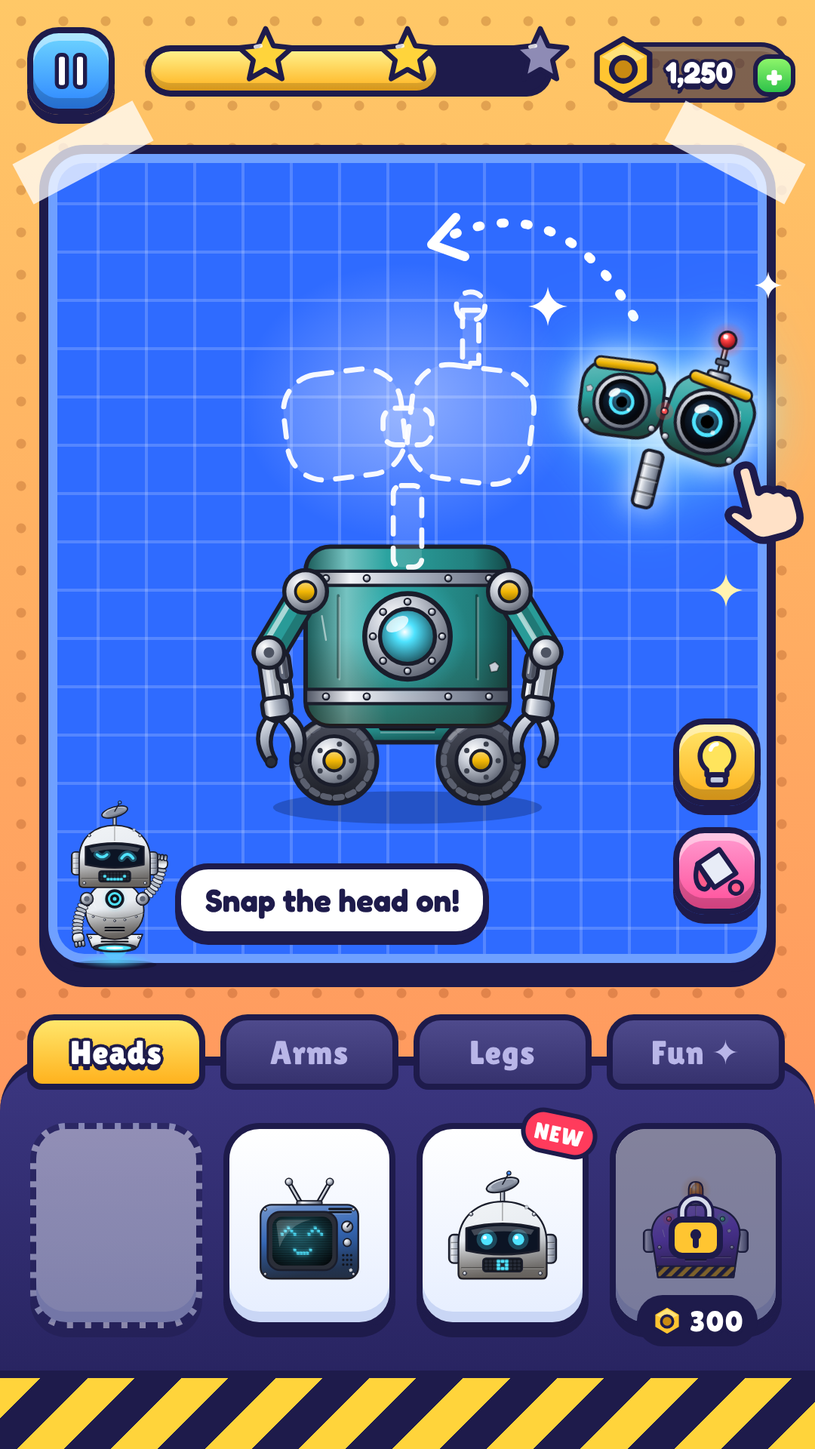
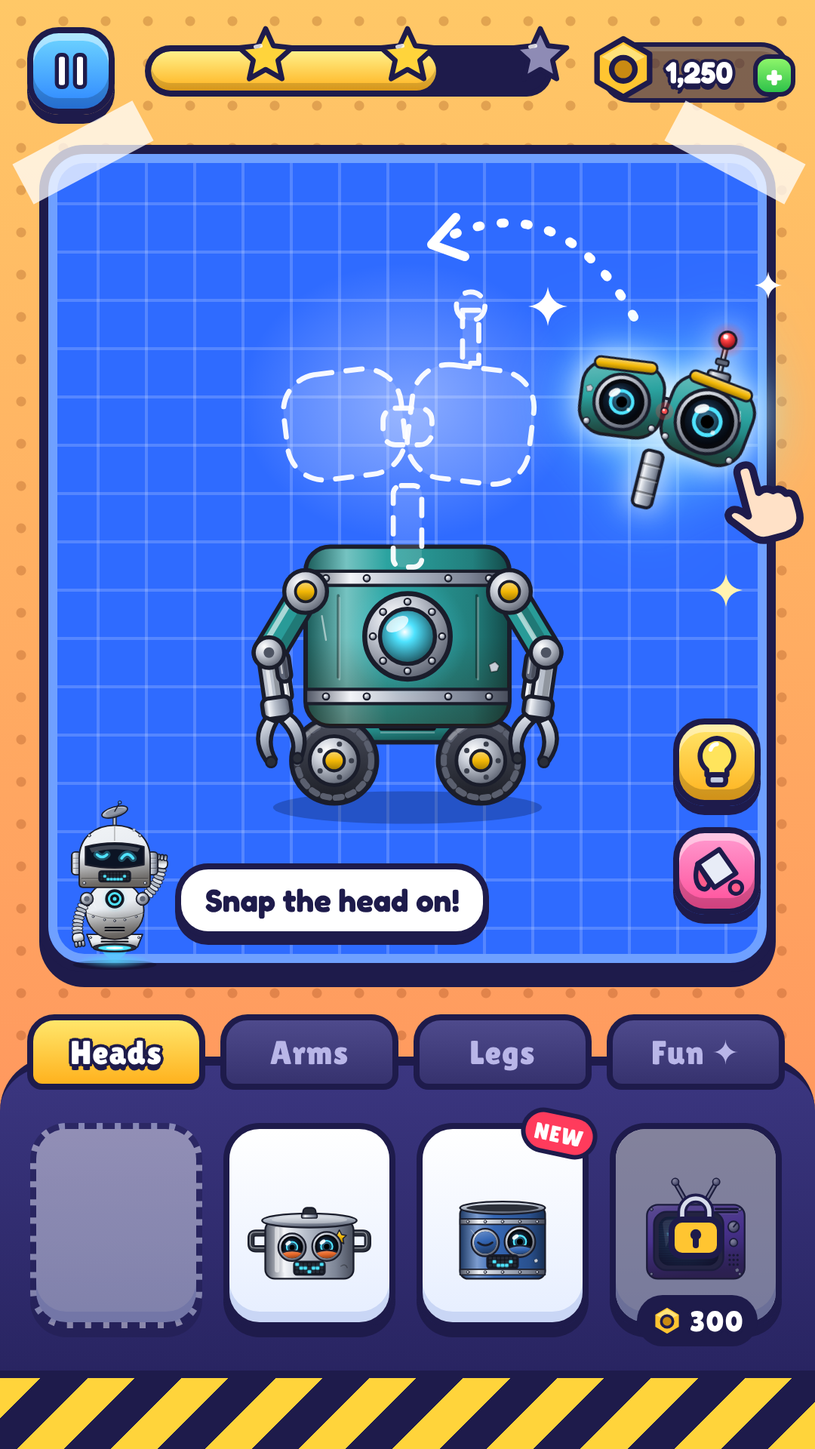
Add flight mockups: launch pad, space and sky flight, crash repair
Built robots now launch and fly: a countdown launch pad, a space run
(stars, shield, comets, UFO) and a sky run (rings, balloons, combos).
Bumps knock parts off, so kids repair and fly again. Adds junk-style
parts (cooking-pot head, spring legs, jetpack) and a game-loop board.

Claude-Session: https://claude.ai/code/session_01JPUJYAbeXmmcbf3wxWHEpT

Changed region(s): [[0.3056, 0.8125, 0.4583, 0.9062], [0.7639, 0.8125, 0.9167, 0.9062], [0.55, 0.8125, 0.7028, 0.9062]]

diff --git a/robot-game-mockups/src/flight.js b/robot-game-mockups/src/flight.js
@@ -1,0 +1,164 @@
+// After-build screens: launch pad, two flying worlds, and the crash → repair moment.
+const { OL, robot, CAST, I, sparkle, confetti, rnd, starPath } = require('./lib');
+const { pill, rbtn, ribbon, bigStar } = require('./screens');
+
+const ROBOT = { ...CAST.junky };
+const FLY_VB = '-10 -14 220 300';
+
+// ---- extra props
+const rocketIcon = (s = 40) => `<svg width="${s}" height="${s}" viewBox="0 0 24 24"><path d="M12 1.5 Q18 6 17 15 H7 Q6 6 12 1.5Z" fill="#fff" stroke="${OL}" stroke-width="2" stroke-linejoin="round"/><circle cx="12" cy="9" r="2.4" fill="#4FE3FF" stroke="${OL}" stroke-width="1.6"/><path d="M7 11 L3.5 16 L7 15Z M17 11 L20.5 16 L17 15Z" fill="#FF5C5C" stroke="${OL}" stroke-width="1.6" stroke-linejoin="round"/><path d="M9.5 15.5 Q12 23 14.5 15.5Z" fill="#FFB21E" stroke="${OL}" stroke-width="1.4"/></svg>`;
+const wrench = (s = 40) => `<svg width="${s}" height="${s}" viewBox="0 0 24 24"><path d="M14.5 3 a5.5 5.5 0 0 0 -5 7.3 L3 16.8 a2.3 2.3 0 0 0 3.2 3.2 L12.7 13.5 a5.5 5.5 0 0 0 7.3 -5 L17 11 L13.4 10.6 L13 7Z" fill="#fff" stroke="${OL}" stroke-width="2" stroke-linejoin="round"/></svg>`;
+const battery = (lvl, s = 44) => `<svg width="${s}" height="${s * 0.6}" viewBox="0 0 40 24"><rect x="2" y="3" width="32" height="18" rx="5" fill="${lvl ? '#1E1B4B' : '#3A3670'}" stroke="${OL}" stroke-width="2.5"/>
+  <rect x="34" y="8" width="4" height="8" rx="1.5" fill="#C3CAD5" stroke="${OL}" stroke-width="1.6"/>${lvl ? `<rect x="5" y="6" width="26" height="12" rx="3" fill="#5BE36A"/><rect x="7" y="7.5" width="22" height="3" rx="1.5" fill="#fff" opacity=".5"/>` : ''}</svg>`;
+
+const cloud = (x, y, s = 1, op = 1) => `<svg class="abs" style="left:${x}px;top:${y}px;width:${200 * s}px;opacity:${op}" viewBox="0 0 200 90">
+  <path d="M30 80 Q4 80 8 60 Q10 42 34 44 Q36 16 66 18 Q84 2 108 14 Q130 2 146 22 Q176 18 178 44 Q198 50 192 68 Q190 82 170 80Z" fill="#fff"/>
+  <path d="M30 80 Q12 80 12 68 Q60 76 110 70 Q160 66 190 70 Q190 82 170 80Z" fill="#D7E9FA"/></svg>`;
+
+const comet = (x, y, s, ang) => `<svg class="abs" style="left:${x}px;top:${y}px;width:${220 * s}px;height:${70 * s}px;transform:rotate(${ang}deg);transform-origin:85% 50%" viewBox="0 0 220 70">
+  <defs><linearGradient id="ct${x}" x1="1" y1="0" x2="0" y2="0"><stop offset="0" stop-color="#FFF3A0"/><stop offset=".25" stop-color="#FF9A1F" stop-opacity=".9"/><stop offset="1" stop-color="#FF4F2A" stop-opacity="0"/></linearGradient>
+  <radialGradient id="cr${x}" cx=".35" cy=".3"><stop offset="0" stop-color="#B9A592"/><stop offset="1" stop-color="#4A3A33"/></radialGradient></defs>
+  <path d="M190 18 Q100 20 4 35 Q100 50 190 52Z" fill="url(#ct${x})"/>
+  <path d="M168 20 L186 12 L204 22 L210 40 L198 56 L178 58 L164 46Z" fill="url(#cr${x})" stroke="${OL}" stroke-width="3" stroke-linejoin="round"/>
+  <circle cx="186" cy="30" r="5" fill="#3A2C26" opacity=".7"/><circle cx="196" cy="44" r="3.5" fill="#3A2C26" opacity=".7"/><circle cx="176" cy="44" r="3" fill="#3A2C26" opacity=".6"/></svg>`;
+
+const ufo = (x, y, s = 1) => `<svg class="abs" style="left:${x}px;top:${y}px;width:${150 * s}px" viewBox="0 0 150 130">
+  <defs><linearGradient id="ub${x}" x1="0" y1="0" x2="0" y2="1"><stop offset="0" stop-color="#F2F4F8"/><stop offset=".5" stop-color="#A7AFBD"/><stop offset="1" stop-color="#4E5463"/></linearGradient>
+  <linearGradient id="beam${x}" x1="0" y1="0" x2="0" y2="1"><stop offset="0" stop-color="#B8FF7A" stop-opacity=".7"/><stop offset="1" stop-color="#B8FF7A" stop-opacity="0"/></linearGradient></defs>
+  <path d="M55 58 L25 128 H125 L95 58Z" fill="url(#beam${x})"/>
+  <ellipse cx="75" cy="34" rx="28" ry="24" fill="#8CF5FF" stroke="${OL}" stroke-width="3" opacity=".9"/><ellipse cx="66" cy="24" rx="9" ry="5" fill="#fff" opacity=".8" transform="rotate(-25 66 24)"/>
+  <circle cx="75" cy="38" r="9" fill="#7CE35A" stroke="${OL}" stroke-width="2.5"/><circle cx="72" cy="36" r="2.6" fill="${OL}"/><circle cx="79" cy="36" r="2.6" fill="${OL}"/>
+  <ellipse cx="75" cy="50" rx="70" ry="16" fill="url(#ub${x})" stroke="${OL}" stroke-width="3.5"/>
+  ${[22, 48, 75, 102, 128].map((cx, i) => `<circle cx="${cx}" cy="${i % 4 ? 56 : 52}" r="4.5" fill="${['#FF5C5C', '#FFD43B', '#5CE1FF', '#FFD43B', '#FF5C5C'][i]}" stroke="${OL}" stroke-width="1.6"/>`).join('')}</svg>`;
+
+const balloon = (x, y, s, c1, c2) => `<svg class="abs" style="left:${x}px;top:${y}px;width:${110 * s}px" viewBox="0 0 110 160">
+  <defs><clipPath id="bc${x}"><path d="M55 4 C100 4 108 46 96 74 C88 92 70 102 66 112 H44 C40 102 22 92 14 74 C2 46 10 4 55 4Z"/></clipPath>
+  <radialGradient id="bs${x}" cx=".35" cy=".3" r=".8"><stop offset="0" stop-color="#fff" stop-opacity=".45"/><stop offset="1" stop-color="#000" stop-opacity=".25"/></radialGradient></defs>
+  <g clip-path="url(#bc${x})"><rect width="110" height="120" fill="${c1}"/>${[10, 42, 74].map(sx => `<path d="M${sx} 0 Q${sx + 8} 60 ${sx + 4} 120 H${sx + 22} Q${sx + 28} 60 ${sx + 22} 0Z" fill="${c2}"/>`).join('')}<rect width="110" height="120" fill="url(#bs${x})"/></g>
+  <path d="M55 4 C100 4 108 46 96 74 C88 92 70 102 66 112 H44 C40 102 22 92 14 74 C2 46 10 4 55 4Z" fill="none" stroke="${OL}" stroke-width="3.5"/>
+  <path d="M46 112 L44 132 M64 112 L66 132" stroke="${OL}" stroke-width="2"/><rect x="40" y="130" width="30" height="22" rx="4" fill="#B97A3E" stroke="${OL}" stroke-width="3"/><path d="M40 138 H70" stroke="#8A5427" stroke-width="2"/></svg>`;
+
+const ring = (x, y, w, glow = true) => `<svg class="abs" style="left:${x}px;top:${y}px;width:${w}px;height:${w * 0.42}px;${glow ? 'filter:drop-shadow(0 0 10px rgba(255,220,80,.9))' : ''}" viewBox="0 0 120 50">
+  <ellipse cx="60" cy="25" rx="54" ry="18" fill="none" stroke="${OL}" stroke-width="13"/><ellipse cx="60" cy="25" rx="54" ry="18" fill="none" stroke="#FFC928" stroke-width="7"/>
+  <path d="M14 20 Q30 8 60 7" fill="none" stroke="#FFF6B0" stroke-width="2.6" stroke-linecap="round"/></svg>`;
+
+const orb = (x, y, s, col, inner) => `<div class="abs" style="left:${x}px;top:${y}px;width:${s}px;height:${s}px;border-radius:50%;border:4px solid ${OL};
+  background:radial-gradient(circle at 35% 30%,#fff 0,${col} 45%,${col} 70%);box-shadow:0 0 22px 8px ${col}99;display:flex;align-items:center;justify-content:center">${inner}</div>`;
+
+const glowStar = (x, y, s) => `<div class="abs" style="left:${x}px;top:${y}px;filter:drop-shadow(0 0 8px rgba(255,220,80,.95))">${I.star(s)}</div>`;
+
+const shield = (x, y, s) => `<div class="abs" style="left:${x}px;top:${y}px;width:${s}px;height:${s}px;border-radius:50%;border:3px solid rgba(170,250,255,.95);
+  background:radial-gradient(circle at 35% 28%,rgba(255,255,255,.55) 0,rgba(140,240,255,.12) 30%,rgba(90,210,255,.08) 60%,rgba(90,210,255,.4) 100%);box-shadow:0 0 30px 6px rgba(120,240,255,.6),inset 0 0 26px rgba(150,245,255,.6)"></div>`;
+
+const flyHud = (stars, lives, prog) => `
+  ${rbtn(18, 18, 'blue', I.pause(32), 58)}
+  ${pill(98, 28, I.star(44), stars, 110).replace('<span class="plus">+</span>', '')}
+  <div class="abs" style="left:232px;top:30px;display:flex;gap:4px">${[0, 1, 2].map(i => battery(i < lives)).join('')}</div>
+  <div class="abs" style="left:488px;top:120px;width:22px;height:560px;border-radius:11px;background:rgba(20,16,60,.55);border:3px solid ${OL}">
+    <div class="abs" style="left:0;bottom:0;width:100%;height:${prog}%;border-radius:8px;background:linear-gradient(#8DF56A,#2EC24A)"></div></div>
+  <div class="abs" style="left:478px;top:94px;width:44px;height:30px">${flag()}</div>
+  <div class="abs" style="left:475px;top:${120 + 560 * (1 - prog / 100) - 22}px;width:48px;height:48px;border-radius:50%;background:#fff;border:3px solid ${OL};display:flex;align-items:center;justify-content:center">
+    ${robot({ ...ROBOT, only: ['antenna', 'head'], viewBox: '18 -14 164 156', style: 'width:36px' })}</div>`;
+const flag = () => `<svg width="44" height="34" viewBox="0 0 44 34"><path d="M12 32 V3" stroke="${OL}" stroke-width="4" stroke-linecap="round"/><path d="M13 4 H36 L31 11 L36 18 H13Z" fill="#FF5C8A" stroke="${OL}" stroke-width="2.6" stroke-linejoin="round"/></svg>`;
+const popup = (x, y, t, col = '#FFD43B') => `<div class="abs lil ol-s" style="left:${x}px;top:${y}px;font-size:30px;color:${col};transform:rotate(-8deg)">${t}</div>`;
+
+// -------------------------------------------------------------- LAUNCH PAD
+function launch() {
+  let stars = ''; for (let i = 0; i < 50; i++) stars += `<div class="abs" style="left:${rnd() * 540}px;top:${rnd() * 380}px;width:${2 + rnd() * 3}px;height:${2 + rnd() * 3}px;border-radius:50%;background:#fff;opacity:${0.4 + rnd() * 0.6}"></div>`;
+  const tower = x => `<svg class="abs" style="left:${x}px;top:330px;width:90px;height:420px" viewBox="0 0 90 420">
+    <rect x="20" y="20" width="50" height="400" fill="none" stroke="#3A2F6E" stroke-width="8"/>
+    ${Array.from({ length: 10 }, (_, i) => `<path d="M20 ${20 + i * 40} L70 ${60 + i * 40} M70 ${20 + i * 40} L20 ${60 + i * 40}" stroke="#3A2F6E" stroke-width="5"/>`).join('')}
+    <rect x="12" y="8" width="66" height="16" rx="4" fill="#4A3D86"/><circle cx="45" cy="0" r="9" fill="#FF4040" stroke="${OL}" stroke-width="3"/><circle cx="45" cy="0" r="24" fill="#FF4040" opacity=".3"/></svg>`;
+  const smoke = (x, y, s) => `<div class="abs" style="left:${x}px;top:${y}px;width:${s}px;height:${s}px;border-radius:50%;background:radial-gradient(circle at 40% 35%,#fff,#D9DCEB 60%,#A7ABC6);border:3px solid rgba(30,27,75,.25)"></div>`;
+  return `<div class="screen" style="background:linear-gradient(#140E45 0%,#3B228F 35%,#8A4FD8 58%,#FF9A6A 74%,#FFC77A 82%)">
+  ${stars}
+  <div class="abs" style="left:380px;top:120px;width:90px;height:90px;border-radius:50%;background:radial-gradient(circle at 35% 30%,#fff,#E3E6F5 50%,#A9AED0);box-shadow:0 0 50px 10px rgba(255,255,255,.35)"></div>
+  <svg class="abs" style="left:0;top:560px" width="540" height="200" viewBox="0 0 540 200"><path d="M0 120 L40 80 L60 100 L90 50 L120 90 L150 70 L190 110 L230 60 L260 95 L300 40 L330 85 L370 65 L400 100 L440 55 L480 95 L540 70 V200 H0Z" fill="#2A1A6B"/>
+    ${[100, 300, 440].map(x => `<rect x="${x}" y="${100}" width="10" height="10" fill="#FFD86B"/>`).join('')}</svg>
+  ${tower(10)}${tower(440)}
+  <div class="abs" style="left:0;top:740px;width:540px;height:220px;background:linear-gradient(#3B2A7A,#1E1452)"></div>
+  <div class="abs" style="left:70px;top:700px;width:400px;height:80px;border-radius:50%;background:repeating-conic-gradient(from 0deg at 50% 50%,#F2B705 0 15deg,${OL} 15deg 30deg);border:5px solid ${OL};box-shadow:0 10px 0 ${OL}"></div>
+  <div class="abs" style="left:120px;top:712px;width:300px;height:56px;border-radius:50%;background:radial-gradient(ellipse,#C9CED8,#7D8596);border:4px solid ${OL}"></div>
+  <div class="abs" style="left:170px;top:720px;width:200px;height:40px;border-radius:50%;background:radial-gradient(ellipse,rgba(255,200,90,.95),rgba(255,140,40,.4) 60%,transparent 70%)"></div>
+  ${robot({ ...ROBOT, flame: true, pose: 'cheer', shadow: false, style: 'position:absolute;left:150px;top:410px;width:240px' })}
+  ${smoke(60, 730, 90)}${smoke(130, 760, 110)}${smoke(330, 755, 110)}${smoke(400, 725, 95)}${smoke(-20, 770, 100)}${smoke(460, 770, 100)}${smoke(220, 790, 100)}
+  ${ribbon(70, 90, 400, 'GET READY!', '#38B6FF', '#1F6DFF', 50)}
+  <div class="abs lil" style="left:0;top:170px;width:540px;text-align:center;font-size:200px;line-height:1;color:#FFD43B;
+     text-shadow:0 8px 0 ${OL},6px 0 0 ${OL},-6px 0 0 ${OL},0 -6px 0 ${OL},5px 5px 0 ${OL},-5px 5px 0 ${OL},5px -5px 0 ${OL},-5px -5px 0 ${OL},0 14px 0 ${OL},0 0 40px rgba(255,220,80,.9)">3</div>
+  ${sparkle(110, 210, 30)}${sparkle(410, 300, 26)}${sparkle(160, 360, 20, '#FFF3B0')}
+  <div class="btn orange lil" style="left:90px;top:836px;width:360px;height:100px;font-size:52px;border-radius:36px">${rocketIcon(54)}<span class="ol">LAUNCH!</span></div>
+  <div class="abs" style="left:392px;top:880px;transform:rotate(-18deg)">${I.hand(66)}</div>
+  </div>`;
+}
+
+// -------------------------------------------------------------- SPACE FLIGHT
+function spaceFlight() {
+  let stars = ''; for (let i = 0; i < 110; i++) stars += `<div class="abs" style="left:${rnd() * 540}px;top:${rnd() * 960}px;width:${1.5 + rnd() * 3}px;height:${1.5 + rnd() * 3}px;border-radius:50%;background:#fff;opacity:${0.3 + rnd() * 0.7}"></div>`;
+  let streaks = ''; for (let i = 0; i < 14; i++) streaks += `<div class="abs" style="left:${rnd() * 540}px;top:${rnd() * 960}px;width:2px;height:${40 + rnd() * 70}px;background:linear-gradient(rgba(255,255,255,0),rgba(255,255,255,.55));border-radius:2px"></div>`;
+  const arc = [[250, 470], [218, 410], [206, 346], [218, 282], [250, 222], [290, 172]];
+  return `<div class="screen" style="background:linear-gradient(#050826,#140B47 55%,#2A0F5C)">
+  <div class="abs" style="left:-120px;top:120px;width:420px;height:300px;border-radius:50%;background:radial-gradient(rgba(255,90,200,.35),transparent 65%)"></div>
+  <div class="abs" style="left:250px;top:420px;width:420px;height:340px;border-radius:50%;background:radial-gradient(rgba(60,220,255,.28),transparent 65%)"></div>
+  ${stars}${streaks}
+  <div class="abs" style="left:300px;top:740px;width:340px;height:340px;border-radius:50%;background:radial-gradient(circle at 30% 25%,#FFB67A,#E8692A 45%,#7A2A12);border:5px solid ${OL};box-shadow:inset -30px -30px 60px rgba(0,0,0,.35)"></div>
+  <div class="abs" style="left:250px;top:850px;width:440px;height:110px;border-radius:50%;border:12px solid #FFD43B;transform:rotate(-14deg);border-bottom-color:transparent;border-left-color:#E8B20A"></div>
+  <div class="abs" style="left:40px;top:150px;width:60px;height:60px;border-radius:50%;background:radial-gradient(circle at 35% 30%,#CFF7FF,#4FB7E3 55%,#1B5A8A);border:4px solid ${OL}"></div>
+  ${ufo(24, 260, 1)}
+  ${comet(250, 120, 0.9, -28)}${comet(-60, 600, 0.75, 20)}
+  <svg class="abs" style="left:380px;top:420px;width:60px" viewBox="0 0 60 60"><path d="M10 20 L28 6 L50 14 L56 36 L40 54 L16 50 L4 34Z" fill="#7A6A60" stroke="${OL}" stroke-width="4" stroke-linejoin="round"/><circle cx="30" cy="26" r="6" fill="#4A3A33"/><circle cx="40" cy="40" r="4" fill="#4A3A33"/></svg>
+  ${arc.map(([x, y], i) => glowStar(x, y, i === 0 ? 44 : 50)).join('')}
+  ${popup(300, 500, '+1')}
+  ${orb(116, 470, 70, '#38B6FF', I.shield(40))}
+  ${orb(390, 300, 62, '#B46BFF', `<span class="lil ol-s" style="font-size:24px">x2</span>`)}
+  ${shield(152, 556, 236)}
+  ${robot({ ...ROBOT, flame: 'big', pose: 'cheer', mood: 'wow', shadow: false, viewBox: FLY_VB, style: 'position:absolute;left:176px;top:570px;width:190px;transform:rotate(-8deg)' })}
+  ${sparkle(150, 840, 18)}${sparkle(330, 880, 14)}${sparkle(240, 900, 22, '#FFF3B0')}
+  ${flyHud('18', 2, 62)}
+  <div class="abs" style="left:24px;top:880px;display:flex;align-items:center;gap:10px;padding:8px 16px;border-radius:20px;background:rgba(20,16,60,.6);border:3px solid ${OL}">
+    <span class="lil ol-s" style="font-size:22px">◀ Drag to fly ▶</span></div>
+  </div>`;
+}
+
+// -------------------------------------------------------------- SKY FLIGHT
+function skyFlight() {
+  return `<div class="screen" style="background:linear-gradient(#4FB9F5 0%,#8FD6FF 45%,#CDEFFF 75%,#FFF2D6 100%)">
+  <div class="abs" style="left:380px;top:60px;width:260px;height:260px;border-radius:50%;background:radial-gradient(#FFF7C2 0,#FFE066 25%,rgba(255,224,102,.35) 40%,transparent 62%)"></div>
+  <div class="abs" style="left:-140px;top:420px;width:820px;height:820px;border-radius:50%;
+     background:radial-gradient(circle,transparent 54%,rgba(255,92,92,.55) 54%,rgba(255,92,92,.55) 57%,rgba(255,170,60,.55) 57%,rgba(255,170,60,.55) 60%,rgba(255,230,80,.55) 60%,rgba(255,230,80,.55) 63%,rgba(100,220,120,.55) 63%,rgba(100,220,120,.55) 66%,rgba(80,170,255,.55) 66%,rgba(80,170,255,.55) 69%,rgba(150,110,240,.5) 69%,rgba(150,110,240,.5) 72%,transparent 72%)"></div>
+  ${cloud(-40, 140, 1.1, 0.9)}${cloud(330, 330, 0.9, 0.95)}${cloud(-30, 620, 1.3)}${cloud(300, 760, 1.4)}${cloud(150, 40, 0.7, 0.7)}
+  <svg class="abs" style="left:0;top:860px" width="540" height="100" viewBox="0 0 540 100"><path d="M0 40 Q70 0 140 30 T280 30 T420 20 T540 30 V100 H0Z" fill="#7BD66A"/><path d="M0 70 Q90 40 180 62 T360 60 T540 55 V100 H0Z" fill="#4FBF5A"/></svg>
+  ${balloon(16, 250, 0.95, '#FF5C8A', '#FFD43B')}${balloon(400, 520, 0.8, '#38B6FF', '#fff')}
+  <svg class="abs" style="left:70px;top:700px;width:90px" viewBox="0 0 90 70"><path d="M4 30 L86 6 L60 64 L42 40Z" fill="#fff" stroke="${OL}" stroke-width="3.5" stroke-linejoin="round"/><path d="M86 6 L42 40 L40 58" fill="none" stroke="${OL}" stroke-width="3"/></svg>
+  ${ring(200, 120, 150)}${ring(214, 270, 130)}${ring(230, 400, 112)}
+  ${glowStar(256, 152, 40)}${glowStar(262, 298, 36)}${glowStar(150, 420, 40)}${glowStar(350, 650, 40)}
+  <div class="abs lil" style="left:40px;top:470px;padding:6px 18px;border-radius:20px;background:#FF5C8A;border:4px solid ${OL};font-size:28px;transform:rotate(8deg);box-shadow:0 5px 0 ${OL}"><span class="ol-s">x3 COMBO!</span></div>
+  ${robot({ ...ROBOT, color: '#E8692A', flame: 'big', pose: 'cheer', shadow: false, viewBox: FLY_VB, style: 'position:absolute;left:170px;top:530px;width:200px;transform:rotate(6deg)' })}
+  <svg class="abs" style="left:130px;top:520px;width:280px;height:300px" viewBox="0 0 280 300">${[[30, 60], [250, 80], [20, 160], [262, 170]].map(([x, y]) => `<path d="M${x} ${y} v40" stroke="#fff" stroke-width="5" stroke-linecap="round" opacity=".8"/>`).join('')}</svg>
+  ${flyHud('27', 3, 38)}
+  </div>`;
+}
+
+// -------------------------------------------------------------- CRASH → REPAIR
+function repair() {
+  const puff = (x, y, s) => `<div class="abs" style="left:${x}px;top:${y}px;width:${s}px;height:${s}px;border-radius:50%;background:radial-gradient(circle at 40% 35%,#F2F3F8,#A9ADC4);opacity:.9"></div>`;
+  return `<div class="screen" style="background:linear-gradient(#FFC867,#FF8A5C)">
+  <div class="abs" style="inset:0;background-image:radial-gradient(circle,rgba(120,40,0,.22) 3px,transparent 3.5px);background-size:28px 28px"></div>
+  <div class="abs" style="left:0;top:690px;width:540px;height:270px;background:linear-gradient(#8A5A3C,#5E3B26);border-top:6px solid ${OL}"></div>
+  <div class="abs" style="left:0;top:690px;width:540px;height:22px;background:repeating-linear-gradient(90deg,#9C6A48 0 60px,#8A5A3C 60px 62px)"></div>
+  ${rbtn(18, 18, 'orange', I.home(36), 58)}${pill(398, 28, I.nut(44), '1,250', 126)}
+  ${ribbon(70, 84, 400, 'OOPS!', '#FF5C5C', '#D63A3A', 58)}
+  <div class="abs" style="left:60px;top:200px;width:420px;padding:12px 18px;background:#fff;border:4px solid ${OL};border-radius:24px;color:${OL};font-size:24px;text-align:center;box-shadow:0 6px 0 ${OL}">A comet bumped Junky's arm off!</div>
+  ${puff(300, 330, 44)}${puff(326, 306, 32)}${puff(282, 312, 26)}
+  ${robot({ ...ROBOT, missing: 'armR', mood: 'focus', style: 'position:absolute;left:110px;top:316px;width:250px' })}
+  <div class="abs" style="left:376px;top:600px;transform:rotate(-70deg);filter:drop-shadow(0 6px 0 rgba(0,0,0,.2))">
+    ${robot({ ...ROBOT, only: ['arms'], pose: 'down', viewBox: '138 132 52 104', style: 'width:64px' })}</div>
+  <svg class="abs" style="left:330px;top:440px;width:150px;height:200px" viewBox="0 0 150 200"><path d="M90 180 Q140 100 30 40" fill="none" stroke="#fff" stroke-width="6" stroke-dasharray="2 14" stroke-linecap="round"/><path d="M44 30 L26 38 L40 54" fill="none" stroke="#fff" stroke-width="6" stroke-linecap="round" stroke-linejoin="round"/></svg>
+  <div class="abs" style="left:440px;top:640px;transform:rotate(-20deg)">${I.hand(60)}</div>
+  ${sparkle(120, 400, 22)}${sparkle(400, 360, 18)}
+  <div class="panel" style="left:60px;top:730px;width:420px;height:84px;display:flex;align-items:center;justify-content:center;gap:14px;font-size:24px">
+    <span>Stars you kept:</span>${I.star(40)}${I.star(40)}${I.star(40, '#8E8BB5')}</div>
+  <div class="btn green lil" style="left:110px;top:848px;width:320px;height:90px;font-size:46px">${wrench(46)}<span class="ol">FIX IT!</span></div>
+  </div>`;
+}
+
+module.exports = { launch, spaceFlight, skyFlight, repair };

diff --git a/robot-game-mockups/src/robot.js b/robot-game-mockups/src/robot.js
@@ -183,6 +183,18 @@ function robot(o = {}) {
         ${[56, 78, 100, 122, 144].map(x => rivet(x, 59.5, 1.8) + rivet(x, 123.5, 1.8)).join('')}
         ${lens(78, 86, 13, lidOf(0))}${lens(122, 85, 15, lidOf(1))}${ledMouth(100, 102, 7)}${scratch(60, 70, 10, 0.9)}${chip(140, 108)}`;
       return { base, full, ant: [100, 36] };
+    },
+    pot: () => {
+      const handles = tube('M44 74 H32 Q26 74 26 80 V88 Q26 94 32 94 H44', 5, '#3A3F4C') + tube('M156 74 H168 Q174 74 174 80 V88 Q174 94 168 94 H156', 5, '#3A3F4C');
+      const base = `<path class="ln" d="M44 74 H28 V94 H44 M156 74 H172 V94 H156" stroke-width="7"/><rect x="44" y="58" width="112" height="74" rx="12" fill="${SC}"/><ellipse cx="100" cy="58" rx="60" ry="9" fill="${S}"/><rect x="92" y="42" width="16" height="12" rx="5" fill="#2A2E38"/>`;
+      const full = `${handles}<rect x="44" y="58" width="112" height="74" rx="12" fill="${SC}"/>
+        <rect x="56" y="66" width="6" height="58" rx="3" fill="#fff" opacity=".5" stroke="none"/><rect x="66" y="66" width="2.5" height="58" rx="1.2" fill="#fff" opacity=".4" stroke="none"/>
+        <path d="M140 116 q6 -4 8 2" stroke="#000" stroke-opacity=".3" stroke-width="1.4" fill="none"/>
+        <ellipse cx="100" cy="58" rx="60" ry="9" fill="${S}"/><ellipse cx="100" cy="57" rx="48" ry="5" fill="#fff" opacity=".35" stroke="none"/>
+        <rect x="92" y="42" width="16" height="12" rx="5" fill="#2A2E38"/><rect x="90" y="50" width="20" height="5" rx="2" fill="${SC}" stroke-width="1.4"/>
+        <path d="${'M'}138 70 l3 6 6 1 -4.5 4 1.2 6.5 -5.7 -3 -5.7 3 1.2 -6.5 -4.5 -4 6 -1Z" fill="${A}" stroke-width="1.4"/>
+        ${lens(78, 92, 13, lidOf(0))}${lens(122, 91, 14, lidOf(1))}${ledMouth(100, 110, 7)}`;
+      return { base, full, ant: [130, 54] };
     }
   };
 
@@ -261,7 +273,13 @@ function robot(o = {}) {
       `<circle cx="${s[0]}" cy="${s[1]}" r="10.5" fill="${RV}" stroke="${K}" stroke-width="2"/><circle cx="${s[0]}" cy="${s[1]}" r="5" fill="${A}" stroke="${K}" stroke-width="1.4"/>`;
   };
   const armBase = side => { const [s, el, h] = armPts(side); return `<path class="ln" d="M${s} L${el} L${h}" fill="none" stroke-width="12"/><circle cx="${h[0]}" cy="${h[1]}" r="8"/><circle cx="${s[0]}" cy="${s[1]}" r="10"/>`; };
-  const ARMS = { base: armBase(-1) + armBase(1), full: arm(-1) + arm(1) };
+  const sparks = (x, y) => `<circle cx="${x}" cy="${y}" r="9" fill="#2A2E38" stroke="${K}" stroke-width="2"/>` +
+    [0, 1, 2, 3, 4, 5].map(i => { const t = -0.4 - i * 0.55; return `<path d="M${f1(x + 10 * Math.cos(t))} ${f1(y + 10 * Math.sin(t))} l${f1(10 * Math.cos(t))} ${f1(10 * Math.sin(t))}" stroke="#FFD43B" stroke-width="2.4"/>`; }).join('') +
+    `<circle cx="${x}" cy="${y}" r="4" fill="#FFF3B0" stroke="none"/>`;
+  const ARMS = { base: armBase(-1) + armBase(1), full: arm(-1) + (o.missing === 'armR' ? sparks(SR[0] + 4, SR[1]) : arm(1)) };
+  const flame = (x, y, len) => `<path d="M${x - 8} ${y} Q${x - 12} ${y + len * 0.5} ${x} ${y + len} Q${x + 12} ${y + len * 0.5} ${x + 8} ${y}Z" fill="${U('fl')}" stroke="none"/><path d="M${x - 4} ${y} Q${x - 5} ${y + len * 0.3} ${x} ${y + len * 0.5} Q${x + 5} ${y + len * 0.3} ${x + 4} ${y}Z" fill="#FFFBEA" stroke="none"/>`;
+  const tank = x => `<rect x="${x - 12}" y="116" width="24" height="66" rx="12" fill="${SC}"/><rect x="${x - 12}" y="134" width="24" height="8" fill="${A}" stroke-width="1.6"/>${rivet(x, 124, 1.8)}<path d="M${x - 8} 182 H${x + 8} L${x + 5} 194 H${x - 5}Z" fill="#5E6576"/>` + (o.flame ? flame(x, 194, o.flame === 'big' ? 64 : 36) : '');
+  const JET = o.jetpack ? tank(40) + tank(160) : '';
 
   // ---------- LOCOMOTION
   const legsLib = {
@@ -310,6 +328,14 @@ function robot(o = {}) {
         <ellipse cx="100" cy="227" rx="34" ry="6.5" fill="#2A2E38" stroke="${K}" stroke-width="2"/><ellipse cx="100" cy="227.5" rx="26" ry="4" fill="${e}" stroke="none"/><ellipse cx="100" cy="227.5" rx="14" ry="2" fill="#fff" stroke="none"/>
         ${rivet(62, 211, 1.8)}${rivet(138, 211, 1.8)}`
     }),
+    springs: () => {
+      const leg = x => {
+        let d = `M${x} 210`; for (let i = 0; i < 7; i++) d += ` L${x + (i % 2 ? -9 : 9)} ${214 + i * 4}`; d += ` L${x} 242`;
+        return `<rect x="${x - 8}" y="203" width="16" height="9" rx="3" fill="${SC}"/>${tube(d, 3, '#C9CED8')}
+          <path d="M${x - 16} 252 Q${x - 16} 240 ${x - 4} 240 H${x + 8} Q${x + 18} 240 ${x + 18} 248 V252Z" fill="${P}"/><rect x="${x - 17}" y="249" width="36" height="5" rx="2" fill="#1F222B"/>`;
+      };
+      return { base: `<rect x="68" y="204" width="16" height="40" rx="3"/><rect x="116" y="204" width="16" height="40" rx="3"/><path d="M60 252 V240 H94 V252Z"/><path d="M108 252 V240 H142 V252Z"/>`, full: leg(76) + leg(124) };
+    },
     rocket: () => {
       const jet = x => `<path d="M${x - 9} 234 Q${x - 13} 254 ${x} 270 Q${x + 13} 254 ${x + 9} 234Z" fill="${U('fl')}" stroke="none"/><path d="M${x - 4} 234 Q${x - 5} 246 ${x} 254 Q${x + 5} 246 ${x + 4} 234Z" fill="#FFFBEA" stroke="none"/>
         <path d="M${x - 12} 204 H${x + 12} L${x + 9} 232 H${x - 9}Z" fill="${SC}"/><path d="M${x - 12} 204 H${x + 12} L${x + 9} 232 H${x - 9}Z" fill="${U('heat')}" stroke="none"/><rect x="${x - 10.5}" y="228" width="21" height="6" rx="2" fill="#5E6576"/>`;
@@ -347,7 +373,7 @@ function robot(o = {}) {
   const vb = o.viewBox || '0 -6 200 268';
   const shadow = o.shadow === false ? '' : `<ellipse cx="100" cy="254" rx="66" ry="8" fill="#000" opacity=".22"/>`;
   return `<svg viewBox="${vb}" class="${o.cls || ''}" style="${o.sil ? `--sil:${o.sil};` : ''}${o.style || ''}" xmlns="http://www.w3.org/2000/svg">${defs}${shadow}
-    <g stroke="${K}" stroke-width="2.2" stroke-linejoin="round" stroke-linecap="round">${render('antenna')}${render('legs')}${render('body')}${render('arms')}${render('head')}</g></svg>`;
+    <g stroke="${K}" stroke-width="2.2" stroke-linejoin="round" stroke-linecap="round">${render('antenna')}${render('legs')}${show('body') && !o.sil ? JET : ''}${render('body')}${render('arms')}${render('head')}</g></svg>`;
 }
 
 // The robot cast used across the mockups (real paint colours: safety yellow, rust orange, teal, enamel white...)
@@ -358,6 +384,7 @@ const CAST = {
   rex: { head: 'cyclops', body: 'barrel', legs: 'spider', color: '#D9433B', accent: '#F2B705', antenna: 'beacon', eye: '#FF9A3C', mood: 'focus' },
   canny: { head: 'bucket', body: 'barrel', legs: 'wheels', color: '#3567B5', accent: '#E8692A', antenna: 'prop', mood: 'wink' },
   zippy: { head: 'binocular', body: 'sphere', legs: 'rocket', color: '#7C4DDB', accent: '#4FE3FF', arms: 'bellows' },
+  junky: { head: 'pot', body: 'barrel', legs: 'springs', color: '#2BA3A0', accent: '#F2B705', antenna: 'ball', jetpack: true },
   bolt: { head: 'binocular', body: 'barrel', legs: 'wheels', color: '#2BA3A0', accent: '#F2B705', antenna: 'ball' }
 };
 

diff --git a/robot-game-mockups/src/extras.js b/robot-game-mockups/src/extras.js
@@ -39,20 +39,27 @@ function artKit() {
   </div>`;
 }
 
+const FLIGHT = require('./flight');
+const LOOP = [['03-robot-workshop', 'Build'], ['09-launch-pad', 'Launch'], ['10-space-flight', 'Fly: Space'],
+  ['11-sky-flight', 'Fly: Sky'], ['12-crash-repair', 'Bump? Repair!'], ['04-reward-stars', 'Stars & Rewards']];
 const SHOTS = [['01-home', 'Home'], ['02-adventure-map', 'Adventure Map'], ['03-robot-workshop', 'Build Workshop'],
   ['04-reward-stars', 'Stars & Rewards'], ['05-robot-garage', 'Robot Garage'], ['06-settings', 'Settings']];
 
-function overview() {
+function overview(shots = SHOTS, sub = 'Robot-building adventure for kids · screen concepts', arrows = false) {
   const dir = path.join(__dirname, '..');
   return `<div class="screen" style="width:1040px;height:1400px;background:radial-gradient(circle at 50% 0,#8B6CFF,#3A1E9E 60%,#1E1166)">
   <div class="abs lil ol" style="left:0;top:34px;width:100%;text-align:center;font-size:58px;color:#FFD43B">BOLT BUDDIES</div>
-  <div class="abs ol-s" style="left:0;top:110px;width:100%;text-align:center;font-size:22px">Robot-building adventure for kids · screen concepts</div>
-  ${SHOTS.map(([f, t], i) => {
+  <div class="abs ol-s" style="left:0;top:110px;width:100%;text-align:center;font-size:22px">${sub}</div>
+  ${shots.map(([f, t], i) => {
     const x = 40 + (i % 3) * 330, y = 170 + Math.floor(i / 3) * 610;
     return `<img class="abs" src="file://${dir}/${f}.png" style="left:${x}px;top:${y}px;width:300px;height:533px;border-radius:28px;border:5px solid ${OL};box-shadow:0 10px 0 ${OL},0 20px 40px rgba(0,0,0,.4)">
-      <div class="abs lil ol-s" style="left:${x}px;top:${y + 552}px;width:300px;text-align:center;font-size:26px">${i + 1}. ${t}</div>`;
+      <div class="abs lil ol-s" style="left:${x}px;top:${y + 552}px;width:300px;text-align:center;font-size:26px">${i + 1}. ${t}</div>` +
+      (arrows && i % 3 < 2 ? `<div class="abs lil ol" style="left:${x + 298}px;top:${y + 240}px;font-size:40px;color:#FFD43B">▶</div>` : '');
   }).join('')}
   </div>`;
 }
 
-module.exports = { jobs: [['07-art-kit', artKit, [1080, 1500], 1.5], ['00-overview', overview, [1040, 1400], 1.5]] };
+module.exports = { jobs: [['07-art-kit', artKit, [1080, 1500], 1.5],
+  ['09-launch-pad', FLIGHT.launch], ['10-space-flight', FLIGHT.spaceFlight], ['11-sky-flight', FLIGHT.skyFlight], ['12-crash-repair', FLIGHT.repair],
+  ['00-overview', () => overview(), [1040, 1400], 1.5],
+  ['00b-game-loop', () => overview(LOOP, 'Build it → launch it → fly it! Bumps knock parts off, so kids fix and fly again', true), [1040, 1400], 1.5]] };

diff --git a/robot-game-mockups/src/screens.js b/robot-game-mockups/src/screens.js
@@ -150,7 +150,7 @@ function workshop() {
   <!-- parts tray -->
   <div class="abs" style="left:0;top:700px;width:540px;height:260px;background:linear-gradient(#3B3680,#24205A);border-top:6px solid ${OL};border-radius:36px 36px 0 0"></div>
   ${tab(18, 'Heads', true)}${tab(146, 'Arms')}${tab(274, 'Legs')}${tab(402, 'Fun ✦')}
-  ${headCard(20, {}, 'empty')}${headCard(148, { ...CAST.telly, color: '#3567B5' })}${headCard(276, { ...CAST.nimbus, mood: 'wow' }, 'new')}${headCard(404, { ...CAST.rex, color: '#7C4DDB' }, 'locked')}
+  ${headCard(20, {}, 'empty')}${headCard(148, { head: 'pot', color: '#E8692A', antenna: 'none' })}${headCard(276, { ...CAST.canny, antenna: 'none' }, 'new')}${headCard(404, { ...CAST.telly, color: '#7C4DDB' }, 'locked')}
   <div class="abs" style="left:0;top:908px;width:540px;height:52px;background:repeating-linear-gradient(-45deg,#FFD43B 0 22px,${OL} 22px 44px);border-top:5px solid ${OL}"></div>
   </div>`;
 }
@@ -238,4 +238,4 @@ function settings() {
   </div>`;
 }
 
-module.exports = { home, mapScreen, workshop, reward, garage, settings };
+module.exports = { home, mapScreen, workshop, reward, garage, settings, pill, rbtn, ribbon, bigStar };

diff --git a/robot-game-mockups/README.md b/robot-game-mockups/README.md
@@ -12,5 +12,10 @@ PNG mockups for a kids' robot-building game. Everything is drawn in code (SVG + 
 | `05-robot-garage.png` | Robot collection and paint |
 | `06-settings.png` | Settings (music, sounds, rate us, share) |
 | `07-art-kit.png` | Parts, UI kit, sound list, palette |
+| `00b-game-loop.png` | Build → launch → fly → repair → rewards |
+| `09-launch-pad.png` | Countdown and launch |
+| `10-space-flight.png` | Flying in space: stars, shield, comets, UFO |
+| `11-sky-flight.png` | Flying in the sky: rings, balloons, combos |
+| `12-crash-repair.png` | A bump knocks a part off, so kids fix it |
 
 Re-render with `cd src && node render.js` (uses the Playwright Chromium). Fonts: Lilita One and Fredoka (SIL OFL).
